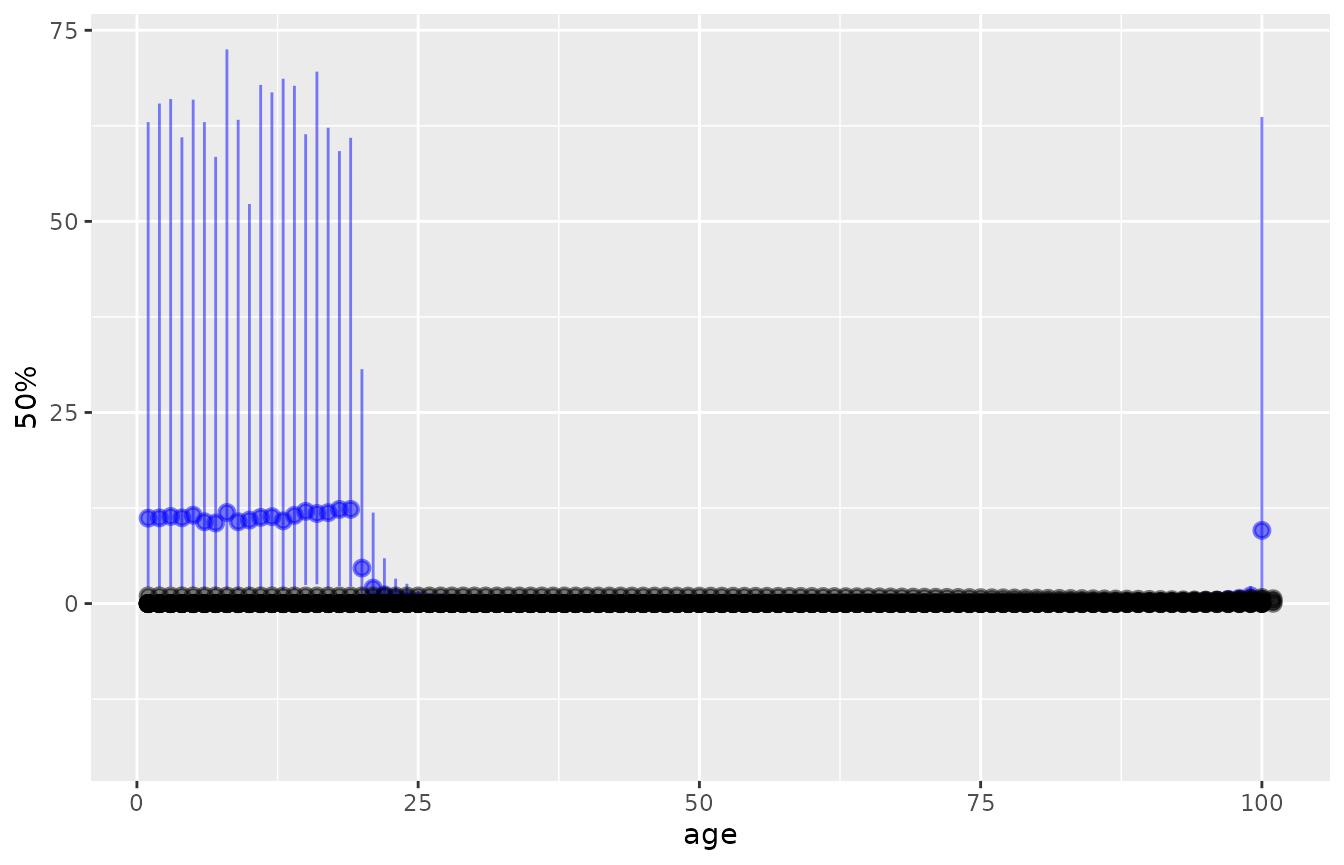
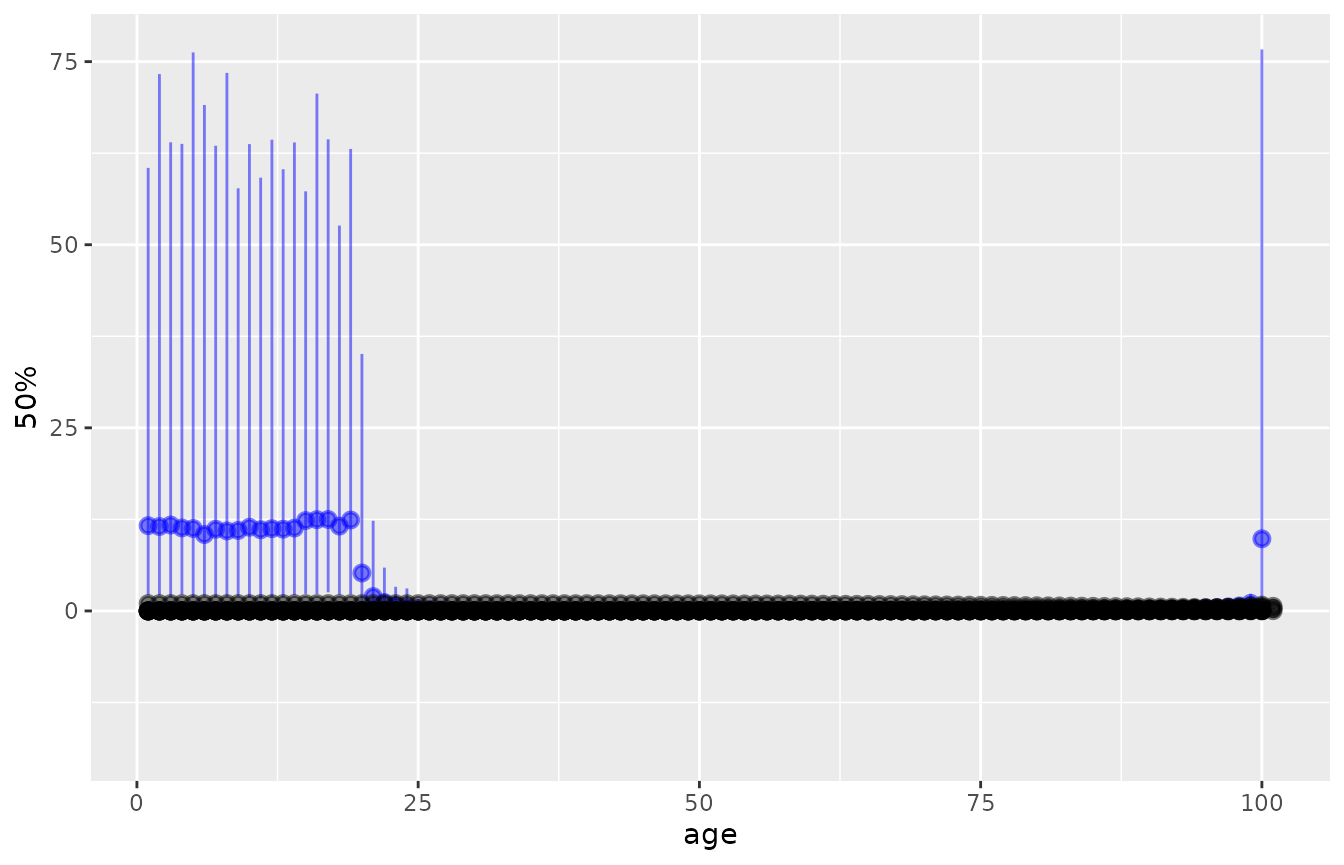
Built site for disbayes: 0.1@de49849

diff --git a/articles/disbayes.html b/articles/disbayes.html
@@ -74,7 +74,7 @@
                         <h4 class="author">Chris Jackson <a href="mailto:chris.jackson@mrc-bsu.cam.ac.uk" class="email">chris.jackson@mrc-bsu.cam.ac.uk</a>
 </h4>
             
-            <h4 class="date">2021-10-18</h4>
+            <h4 class="date">2021-10-22</h4>
       
       <small class="dont-index">Source: <a href="https://github.com/chjackson/disbayes/blob/master/vignettes/disbayes.Rmd"><code>vignettes/disbayes.Rmd</code></a></small>
       <div class="hidden name"><code>disbayes.Rmd</code></div>
@@ -325,12 +325,12 @@
   <span class="fu"><a href="https://dplyr.tidyverse.org/reference/filter.html">filter</a></span><span class="op">(</span><span class="va">var</span><span class="op">==</span><span class="st">"cf"</span>, <span class="fu"><a href="https://dplyr.tidyverse.org/reference/between.html">between</a></span><span class="op">(</span><span class="va">age</span>,<span class="fl">60</span>,<span class="fl">65</span><span class="op">)</span><span class="op">)</span> <span class="op">%&gt;%</span>
   <span class="fu"><a href="https://dplyr.tidyverse.org/reference/select.html">select</a></span><span class="op">(</span><span class="va">age</span>, <span class="va">`25%`</span>, <span class="va">`50%`</span>, <span class="va">`75%`</span><span class="op">)</span></code></pre></div>
 <pre><code>##   age        25%        50%        75%
-## 1  60 0.01546701 0.01661919 0.01782606
-## 2  61 0.01578789 0.01690756 0.01799778
-## 3  62 0.01600031 0.01709024 0.01820182
-## 4  63 0.01626404 0.01731535 0.01844748
-## 5  64 0.01651924 0.01760257 0.01872332
-## 6  65 0.01675048 0.01791022 0.01896876</code></pre>
+## 1  60 0.01557324 0.01664283 0.01788916
+## 2  61 0.01582057 0.01683721 0.01810390
+## 3  62 0.01607595 0.01705687 0.01827242
+## 4  63 0.01633769 0.01730580 0.01846346
+## 5  64 0.01661098 0.01756627 0.01869286
+## 6  65 0.01691144 0.01787302 0.01900075</code></pre>
 <p>The default <code>plot</code> method for objects returned by <code>disbayes</code> plots the posterior summaries for case fatality, allowing a quick check of the model results. Or do <code><a href="https://rdrr.io/r/graphics/plot.default.html">plot(..., variable="inc")</a></code> for incidence. The function returns a <code>ggplot2</code> object that can be modified with <code>ggplot2</code> functions, e.g. to add axis labels.</p>
 <div class="sourceCode" id="cb17"><pre class="downlit sourceCode r">
 <code class="sourceCode R"><span class="kw"><a href="https://rdrr.io/r/base/library.html">library</a></span><span class="op">(</span><span class="va"><a href="https://ggplot2.tidyverse.org">ggplot2</a></span><span class="op">)</span>
